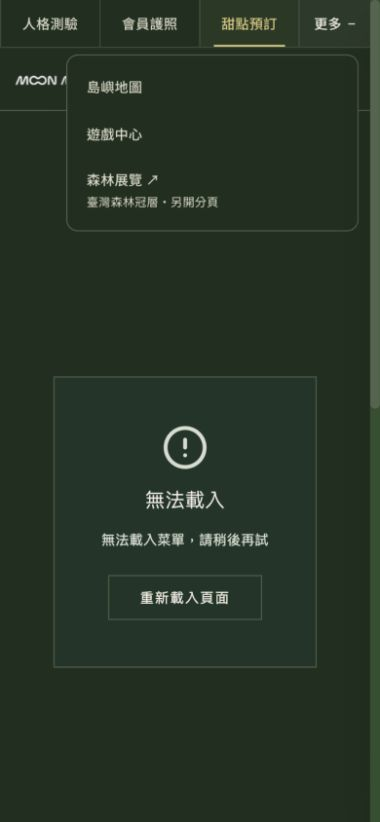
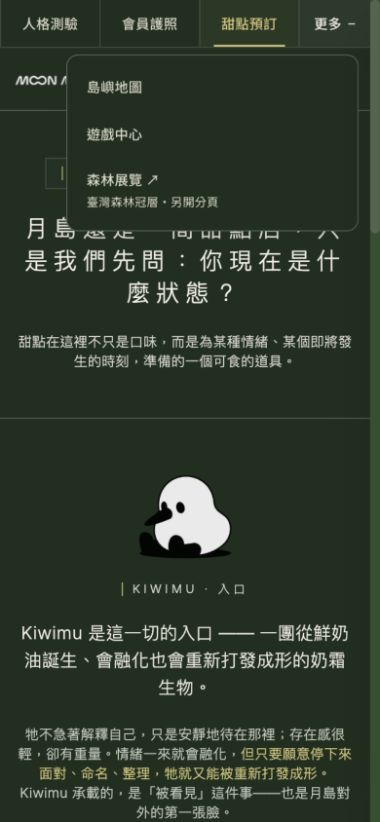
fix(shop): 讓手機更多入口支援文字放大換行

diff --git a/styles/kiwimu-universe.css b/styles/kiwimu-universe.css
@@ -128,7 +128,7 @@
 .ku-universe-rail__link:hover, .ku-universe-rail__more:hover { background: rgba(245,240,232,.05); color: var(--ku-nav-paper); }
 .ku-universe-rail__link.is-current, .ku-universe-rail__more.is-current { color: var(--ku-nav-gold); background: rgba(215,198,120,.06); }
 .ku-universe-rail__link.is-current::after, .ku-universe-rail__more.is-current::after { content: ''; position: absolute; bottom: 0; left: 14px; right: 14px; height: 2px; background: var(--ku-nav-gold); }
-.ku-universe-rail__more { display: none; gap: 6px; }
+.ku-universe-rail__more { display: none; gap: 6px; flex-wrap: wrap; }
 .ku-universe-rail__showcase { gap: 6px; }
 .ku-universe-rail__more-panel {
   position: absolute; top: calc(100% + 8px); right: 12px;
